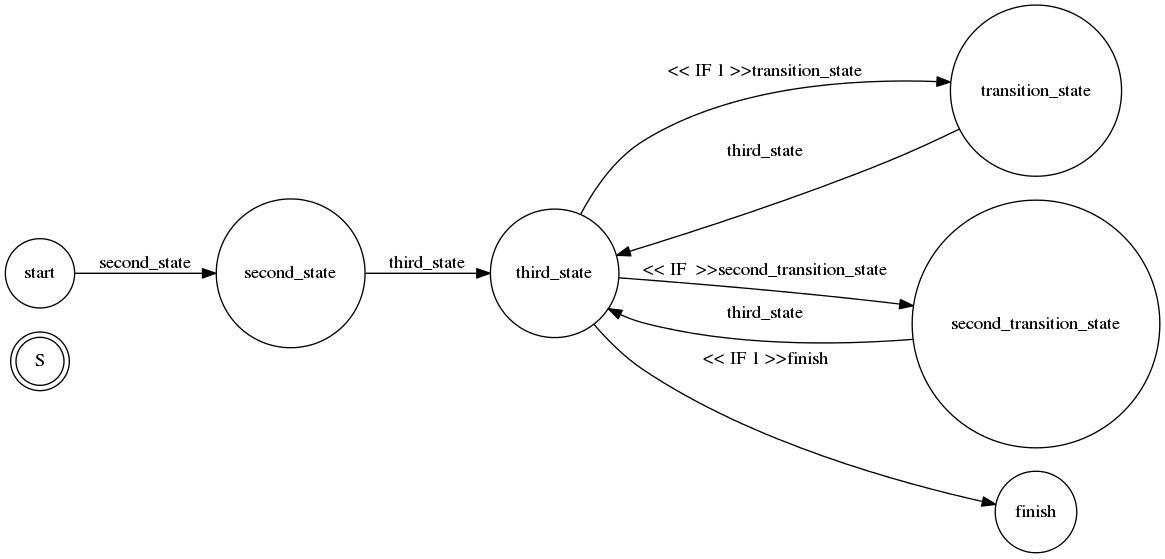
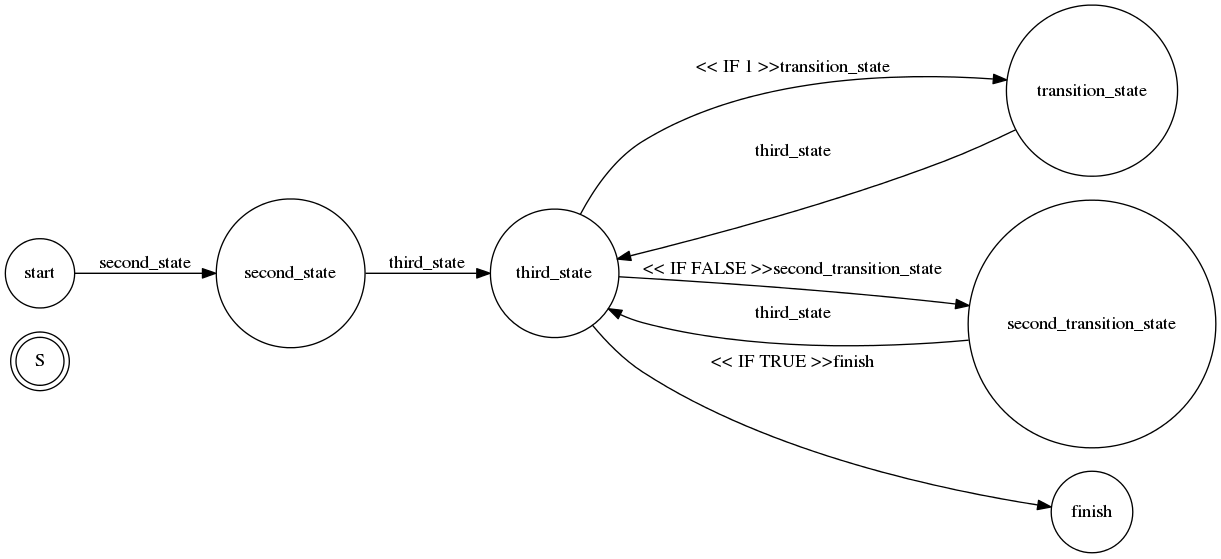
Fix boolean trapresentation in graph

diff --git a/src/Mothership/StateMachine/StateMachineAbstract.php b/src/Mothership/StateMachine/StateMachineAbstract.php
@@ -145,7 +145,7 @@ abstract class StateMachineAbstract implements StateMachineInterface
                 foreach ($transitions_from as $from) {
                     if (is_array($from)) {
                         $_transitions[] = sprintf($pattern, $from['status'], $state['name'], "<< IF "
-                            . $from['result'] . " >>" . $state['name']);
+                            . $this->convertToStringCondition($from['result']) . " >>" . $state['name']);
                     } else {
                         $_transitions[] = sprintf($pattern, $from, $state['name'], $state['name']);
                     }
@@ -170,6 +170,22 @@ abstract class StateMachineAbstract implements StateMachineInterface
         } catch (WorkflowException $ex) {
             throw new StateMachineException("Error running State Machine", 100, $ex, $this->output);
         }
+    }
+
+    /**
+     * Convert the Condition to string
+     * @param $condition
+     * @return string
+     */
+    private function convertToStringCondition($condition)   {
+        if(is_bool($condition)){
+            if($condition){
+                return "TRUE";
+            }else{
+                return "FALSE";
+            }
+        }
+        return (string)$condition;
     }
 
 }
